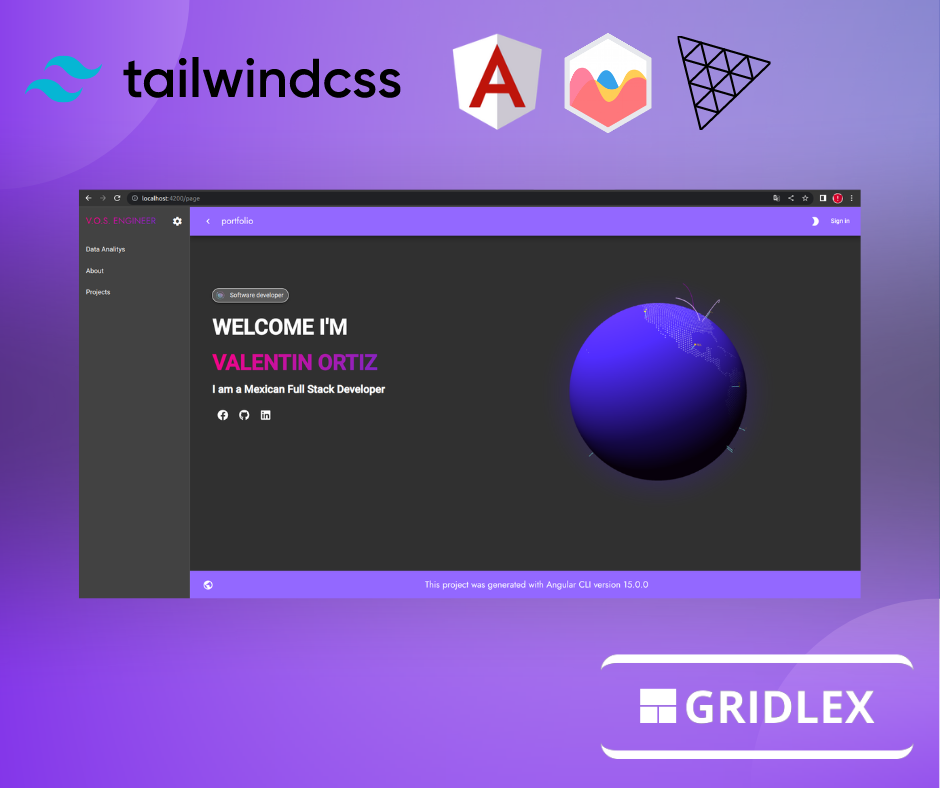
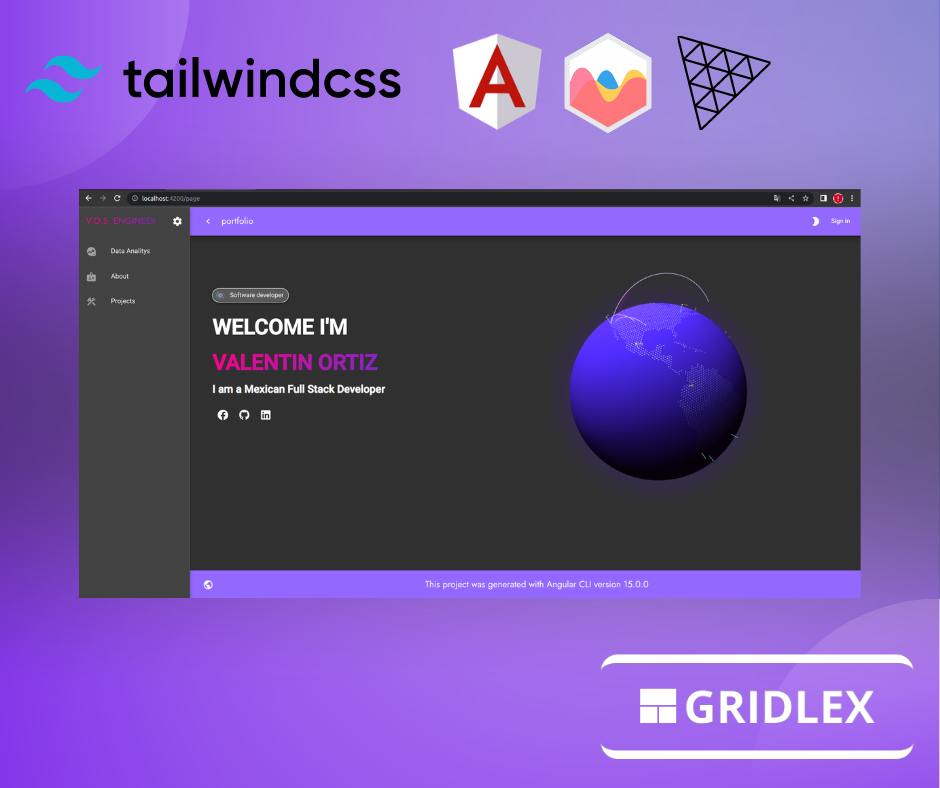
Actualización

diff --git a/src/app/modules/dashboard/dashboard.component.ts b/src/app/modules/dashboard/dashboard.component.ts
@@ -4,6 +4,7 @@ import { MatTableDataSource } from '@angular/material/table';
 import { MatPaginator, PageEvent } from '@angular/material/paginator';
 import { ThemePalette } from '@angular/material/core';
 import { ChartConfiguration } from "chart.js";
+import { ShareService } from 'src/app/services/share.service';
 @Component({
   selector: 'app-dashboard',
   templateUrl: './dashboard.component.html',
@@ -46,7 +47,7 @@ export class DashboardComponent {
     datasets: []
   };
 
-  constructor(private httpService: HttpService) {
+  constructor(private httpService: HttpService, private shareService: ShareService) {
     this.columns = ['name', 'type', 'company', 'location', 'country', 'followers', 'public_gists', 'public_repos'];
     this.analyzeButton = this.checkedA;
     this.globeGraphosButton = this.checkedB;
@@ -59,13 +60,16 @@ export class DashboardComponent {
     this.pageSize = 0;
 
     this.httpService.getUsersGithubStored().subscribe(res => {
-      console.log(res);
       this.usersDataSource = new MatTableDataSource(res.users.data);
       this.pageSize = res.users.per_page;
       this.length = res.users.total;
       this.pageIndex = res.users.current_page - 1;
       this.linksPagination = res.users.links;
     });
+
+    this.shareService.isLogged$.subscribe(isLogged => {
+      this.disabled = isLogged ? false: true;
+    })
 
     this.lineChart();
     this.barChart();
@@ -209,7 +213,7 @@ export class DashboardComponent {
 
   barChart(): void {
     this.httpService.getBarChartGraphycRepos().subscribe({
-      next: (res:any) => {
+      next: (res: any) => {
         const labels = Object.keys(res.data);
         const data: any = Object.values(res.data);
 

diff --git a/src/app/layout/components/navigation/navigation.component.html b/src/app/layout/components/navigation/navigation.component.html
@@ -3,6 +3,7 @@
     #drawer
     class="sidenav"
     fixedInViewport
+    [class.mat-elevation-z4]="true"
     [attr.role]="(isHandset$ | async) ? 'dialog' : 'navigation'"
     [mode]="(isHandset$ | async) ? 'over' : 'side'"
     [opened]="(isHandset$ | async) === false"
@@ -21,29 +22,37 @@
         href="javascript:void(0)"
         routerLink="/page/admin"
         routerLinkActive="active"
-        >Admin Dashboard</a
       >
+        <mat-icon matListItemIcon>dashboard</mat-icon>
+        <p matListItemTitle>Admin Dashboard</p>
+      </a>
       <a
         mat-list-item
         href="javascript:void(0)"
         routerLink="/page/dahsboard"
         routerLinkActive="active"
-        >Data Analitys</a
       >
+        <mat-icon matListItemIcon>data_exploration</mat-icon>
+        <p matListItemTitle>Data Analitys</p>
+      </a>
       <a
         mat-list-item
         href="javascript:void(0)"
         routerLink="/page/about"
         routerLinkActive="active"
-        >About</a
       >
+        <mat-icon matListItemIcon>badge</mat-icon>
+        <p matListItemTitle>About</p>
+      </a>
       <a
         mat-list-item
         href="javascript:void(0)"
         routerLink="/page/projects"
         routerLinkActive="active"
-        >Projects</a
       >
+        <mat-icon matListItemIcon>construction</mat-icon>
+        <p matListItemTitle>Projects</p>
+      </a>
     </mat-nav-list>
   </mat-sidenav>
   <mat-sidenav-content>

diff --git a/src/app/layout/components/navigation/navigation.component.scss b/src/app/layout/components/navigation/navigation.component.scss
@@ -1,25 +1,21 @@
-.sidenav-container {
+::ng-deep .sidenav-container {
   height: 100%;
 }
 
-.sidenav {
-  width: 200px;
+::ng-deep .sidenav {
+  width: 230px;
 }
 
-.sidenav .mat-toolbar {
+::ng-deep .sidenav .mat-toolbar {
   background: inherit;
 }
 
-.mat-toolbar.mat-primary {
+::ng-deep .mat-toolbar.mat-primary {
   position: sticky;
   top: 0;
   z-index: 1;
 }
 
-.user-icon {
+::ng-deep .user-icon {
   padding: 0 14px;
-}
-
-.spacer {
-  flex: 1 1 auto;
 }
